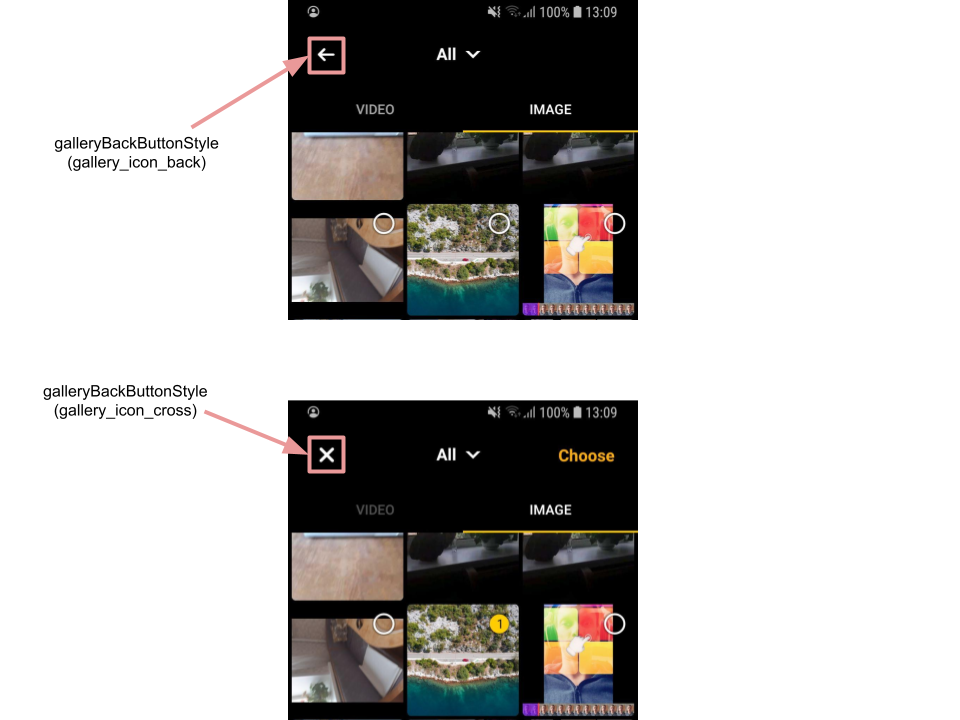
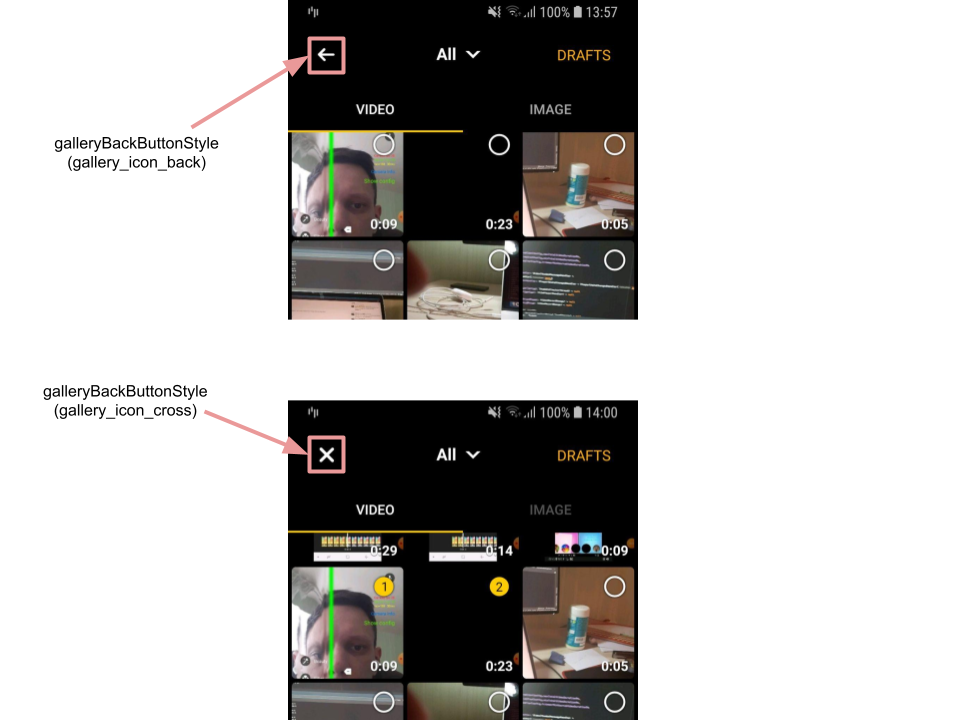
add drafts description

diff --git a/mddocs/gallery_styles.md b/mddocs/gallery_styles.md
@@ -20,9 +20,6 @@
 
     style for the gallery screen title (screen title equals to the selected media album)
 
-- [galleryNextButtonStyle](https://github.com/Banuba/ve-sdk-android-integration-sample/blob/main/app/src/main/res/values/themes.xml#L88)
-
-    style for the button that appears during selection to proceed with selected resources
 - [galleryItemRadioButtonStyle](https://github.com/Banuba/ve-sdk-android-integration-sample/blob/main/app/src/main/res/values/themes.xml#L89)
 
     style for the radio button that is used to define selected resource. It has a bulk of custom attributes to customize internal colors 
@@ -37,6 +34,22 @@
 - [galleryTabTextColors](https://github.com/Banuba/ve-sdk-android-integration-sample/blob/main/app/src/main/res/values/themes.xml#L96)
 
     attribute holds the text colors for different states of tabs
+
+- [galleryDraftsButtonStyle]()
+
+    style for the button that opens Drafts screen
+
+- [galleryNextParentStyle]()
+
+    style for the bottom view that containes selection info and next button
+
+- [galleryNextButtonStyle](https://github.com/Banuba/ve-sdk-android-integration-sample/blob/main/app/src/main/res/values/themes.xml#L88)
+
+    style for the button that appears during selection to proceed with selected resources
+
+- [gallerySelectionDescriptionStyle]()
+
+    style for the description of selected files
 
     ![img](screenshots/gallery1.png)
 
@@ -63,14 +76,91 @@ Besides concrete styles there are a lot of theme attributes that allows to confi
 - [gallery_icon_back](https://github.com/Banuba/ve-sdk-android-integration-sample/blob/main/app/src/main/res/values/themes.xml#L102) - for drawable in case of "back" button returns to the previous screen
 - [gallery_album_divider_color](https://github.com/Banuba/ve-sdk-android-integration-sample/blob/main/app/src/main/res/values/themes.xml#L103) - divider color in the albums list
 
+## Drafts
+
+- [draftsBackButtonStyle]()
+
+    style for the back button on drafts screen
+
+- [draftsTitleStyle]()
+
+    style for the title of drafts screen
+
+- [draftsRecyclerViewStyle]()
+
+    style for the view containing all drafts
+
+- [draftItemParentStyle]()
+
+    style for the item representing every draft inside the recycler view container
+
+- [draftThumbnailStyle]()
+
+    style for the draft preview
+
+- [draftItemNameStyle]()
+
+    style for the name of the draft
+
+- [draftItemOptionsButtonStyle]()
+
+    style for the button that opens available options for the current draft
+
+- [draftOptionsParentStyle]()
+
+    style for the bottom container of available options for the current draft
+
+- [draftOptionsPreviewStyle]()
+
+    style for the draft preview image
+
+- [draftOptionsNameStyle]()
+
+    style for the draft name
+
+- [draftOptionsSubtitleStyle]()
+
+    style for the draft subtitle
+
+- [draftOptionsBackButtonStyle]()
+
+    style for the button that closes draft options bottom container
+
+- [draftOptionsDividerStyle]()
+
+    style for the horizontal divider within options bottom container
+
+- [draftOptionsRemoveButtonStyle]()
+
+    style for the button that removes current draft
+
+![img](screenshots/drafts_1.png)
+
+- [draftsEmptyTextStyle]()
+
+    style for the view that is shown in case of absent drafts
+
+![img](screenshots/drafts_2.png)
+
 ## String resources
 
 | ResourceId        |      Value      |   Description |
 | ------------- | :----------- | :------------- |
-| gallery_next | Choose | text on the button that opens the editor screen with selected videos or images. Defined in ```galleryNextButtonStyle```
+| gallery_next | Next | text on the button that opens the editor screen with selected videos or images. Defined in ```galleryNextButtonStyle```
+| gallery_drafts | Drafts | text on the button that opens drafts screen
+| gallery_tab_title_image | Image | label of image tab
+| gallery_tab_title_video | Video | label of video tab
+| gallery_selection_count_default | Select Items | description inside ```gallerySelectionDecriptionStyle``` while no selection made
+| gallery_selection_count_description_video | Import %1$d Videos | **plurals resource** that is used inside ```gallerySelectionDescriptionStyle``` when user selects video
+| gallery_selection_count_description_image | Import %1$d Images | **plurals resource** that is used inside ```gallerySelectionDescriptionStyle``` when user selects image
 | gallery_album_untitled | untitled | the title of the album that has no name (it may be created in case of some videos or images has no album name in theirs meta data)
 | gallery_album_all_media | All | the title of the album that contains all media resources
 | gallery_empty_image_list | No images found | message that is shown in the middle of the gallery screen in case of there are no images found on device. The view is defined in ```galleryEmptyTextStyle```
 | gallery_empty_video_list | No videos found | message that is shown in the middle of the gallery screen in case of there are no videos found on device. The view is defined in ```galleryEmptyTextStyle```
 | gallery_choose_at_least | Select at least %1$d files | **plurals resource** that is used for the [toast](alert_styles.md#L11) message that is shown when the user want to open the editor screen but the number of selected resources (videos or images) is less than predefined custom value (recently "1" is used). This predefined value is a placeholder in every plural string resource here
 | err_gallery_broken_file | Damaged file | message shown as a [toast](alert_styles.md#L11) in case of tapping on the damaged media file
+| err_gallery_limit_selected | You can select only %1$d files | **plurals resource** that is used for the toast message if the user tries to select more files than allowed
+| drafts_title | Drafts | label of the drafts screen
+| drafts_empty_description | No Drafts | text description inside ```draftsEmptyTextStyle```
+| drafts_options_subtitle | Draft | subtitle of the draft
+| drafts_options_remove | Remove | label of the button inside ```draftOptionsRemoveButtonStyle```
